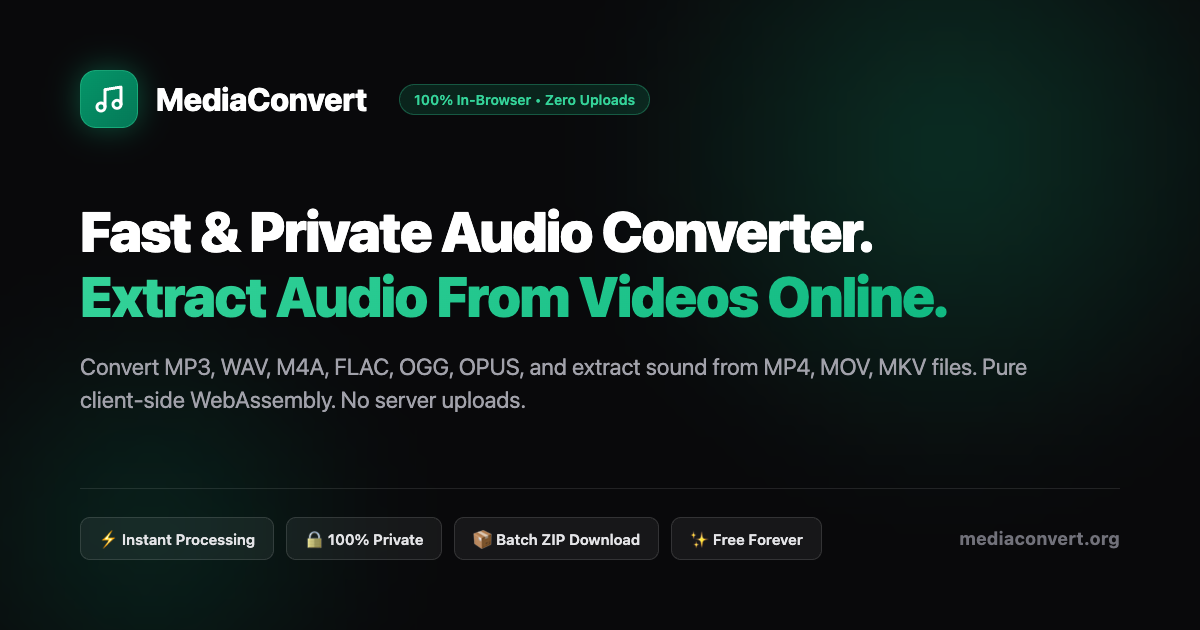
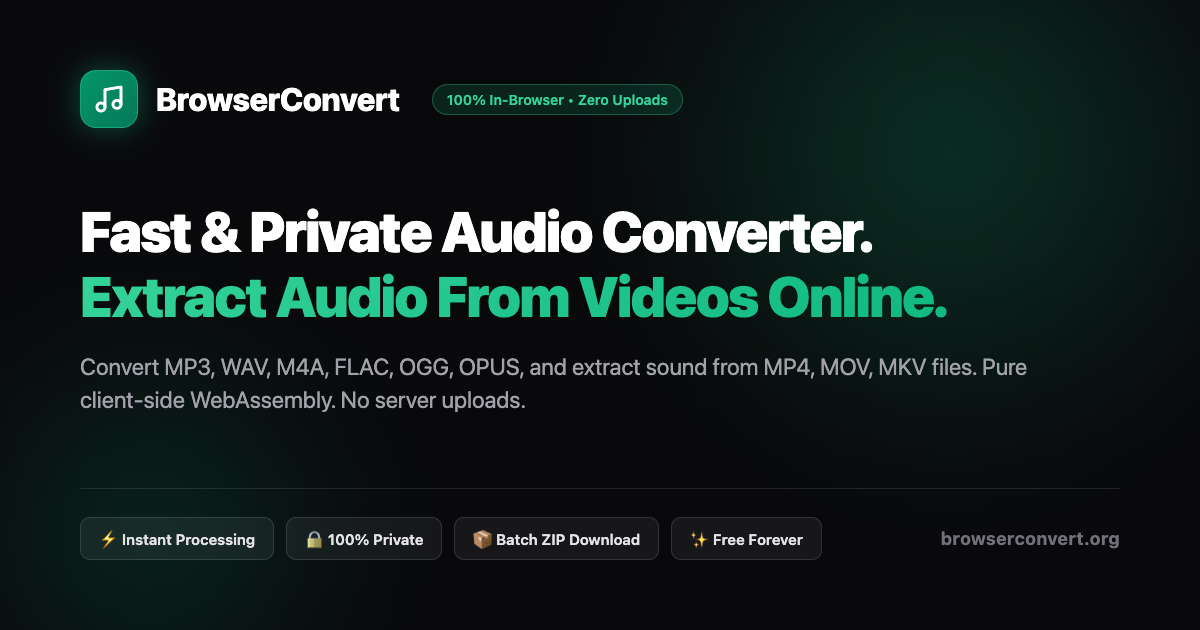
feat(branding): finalize brand as BrowserConvert and domain as browserconvert.org

Changed region(s): [[0.1233, 0.1206, 0.5858, 0.181], [0.7708, 0.8444, 0.8633, 0.8746]]

diff --git a/src/app/about/page.tsx b/src/app/about/page.tsx
@@ -8,21 +8,21 @@ import { DirectAnswer } from "@/components/seo/DirectAnswer";
 import { Cpu, ShieldCheck, Zap, Lock, ArrowRight } from "lucide-react";
 
 export const metadata: Metadata = {
-  title: "About MediaConvert - Client-Side Audio & Video Converter",
+  title: "About BrowserConvert - Client-Side Audio & Video Converter",
   description:
-    "Learn about MediaConvert's browser-native audio conversion architecture. Fast, free, and 100% private file-to-file conversion without server uploads.",
+    "Learn about BrowserConvert's browser-native audio conversion architecture. Fast, free, and 100% private file-to-file conversion without server uploads.",
   alternates: {
     canonical: `${siteConfig.url}/about`,
   },
   openGraph: {
-    title: "About MediaConvert - Client-Side Audio & Video Converter",
-    description: "Learn about MediaConvert's browser-native audio conversion architecture with zero server uploads.",
+    title: "About BrowserConvert - Client-Side Audio & Video Converter",
+    description: "Learn about BrowserConvert's browser-native audio conversion architecture with zero server uploads.",
     url: `${siteConfig.url}/about`,
     images: [`${siteConfig.url}/og-image.png`],
   },
   twitter: {
     card: "summary_large_image",
-    title: "About MediaConvert - Client-Side Audio & Video Converter",
+    title: "About BrowserConvert - Client-Side Audio & Video Converter",
     description: "Browser-native audio conversion architecture with zero server uploads.",
     images: [`${siteConfig.url}/og-image.png`],
   },
@@ -33,8 +33,8 @@ export default function AboutPage() {
     <div className="mx-auto max-w-4xl px-4 sm:px-6 lg:px-8 py-8 space-y-12">
       <SeoSchema
         pageType="website"
-        title="About MediaConvert - Mission, Tech & Privacy"
-        description="Learn how MediaConvert provides 100% private in-browser audio conversion without server storage."
+        title="About BrowserConvert - Mission, Tech & Privacy"
+        description="Learn how BrowserConvert provides 100% private in-browser audio conversion without server storage."
         url="/about"
         breadcrumbs={[{ label: "About", href: "/about" }]}
       />
@@ -43,22 +43,22 @@ export default function AboutPage() {
 
       <div className="space-y-4">
         <h1 className="text-3xl sm:text-4xl font-extrabold tracking-tight text-slate-900">
-          About MediaConvert
+          About BrowserConvert
         </h1>
         <p className="text-base text-slate-600 leading-relaxed">
-          MediaConvert is a free, modern web utility built to simplify audio format conversion and video-to-audio
+          BrowserConvert is a free, modern web utility built to simplify audio format conversion and video-to-audio
           extraction while protecting user confidentiality.
         </p>
       </div>
 
       <DirectAnswer
-        question="What is MediaConvert and how does it protect user privacy?"
-        answer="MediaConvert is a free online audio converter that runs WebAssembly-compiled FFmpeg locally inside your browser sandbox. Unlike traditional converters that upload private audio and video recordings to cloud servers, MediaConvert executes all decoding, trimming, and re-encoding on your device CPU. 0 bytes of media content are ever transferred to our servers."
+        question="What is BrowserConvert and how does it protect user privacy?"
+        answer="BrowserConvert is a free online audio converter that runs WebAssembly-compiled FFmpeg locally inside your browser sandbox. Unlike traditional converters that upload private audio and video recordings to cloud servers, BrowserConvert executes all decoding, trimming, and re-encoding on your device CPU. 0 bytes of media content are ever transferred to our servers."
       />
 
       {/* The Problem & Our Solution */}
       <section className="space-y-4 rounded-2xl border border-slate-200 bg-white p-6 sm:p-8 shadow-xs">
-        <h2 className="text-xl font-bold text-slate-900">Why We Built MediaConvert</h2>
+        <h2 className="text-xl font-bold text-slate-900">Why We Built BrowserConvert</h2>
         <p className="text-xs sm:text-sm text-slate-600 leading-relaxed">
           For years, converting an audio file or extracting sound from a video required either installing bloated,
           adware-laden desktop software or uploading sensitive recordings to obscure cloud servers. Cloud-based converters
@@ -66,7 +66,7 @@ export default function AboutPage() {
           family videos are uploaded over the internet, stored on third-party disks, and processed in unpredictable server environments.
         </p>
         <p className="text-xs sm:text-sm text-slate-600 leading-relaxed">
-          We built MediaConvert with a simple conviction: <strong>your media files should never leave your computer or phone.</strong>
+          We built BrowserConvert with a simple conviction: <strong>your media files should never leave your computer or phone.</strong>
         </p>
       </section>
 

diff --git a/src/app/page.tsx b/src/app/page.tsx
@@ -107,8 +107,8 @@ export default function HomePage() {
 
   const faqs = [
     {
-      q: "How does MediaConvert process files without uploading them?",
-      a: "MediaConvert runs WebAssembly (Wasm) compiled FFmpeg directly inside your web browser. When you select a file, your browser's CPU processes and re-encodes the audio data in memory. No file data is ever transmitted across the internet to our servers.",
+      q: "How does BrowserConvert process files without uploading them?",
+      a: "BrowserConvert runs WebAssembly (Wasm) compiled FFmpeg directly inside your web browser. When you select a file, your browser's CPU processes and re-encodes the audio data in memory. No file data is ever transmitted across the internet to our servers.",
     },
     {
       q: "Which video formats can I extract audio from?",
@@ -127,8 +127,8 @@ export default function HomePage() {
       a: "Because processing happens in your browser's memory, we recommend files under 1 GB for smooth performance. Very large video files may be constrained by your device's available RAM.",
     },
     {
-      q: "Can I use MediaConvert on my smartphone?",
-      a: "Yes. MediaConvert is fully responsive and functions on modern mobile browsers including Safari on iOS and Chrome on Android with WebAssembly support.",
+      q: "Can I use BrowserConvert on my smartphone?",
+      a: "Yes. BrowserConvert is fully responsive and functions on modern mobile browsers including Safari on iOS and Chrome on Android with WebAssembly support.",
     },
   ];
 
@@ -197,7 +197,7 @@ export default function HomePage() {
       <section className="mx-auto max-w-7xl px-4 sm:px-6 lg:px-8">
         <DirectAnswer
           question="How do I convert audio or extract sound from video files online without uploading them?"
-          answer="MediaConvert executes WebAssembly-compiled FFmpeg directly inside your web browser sandbox. Drag and drop your audio or video files into the converter, select your output format (MP3, WAV, M4A, FLAC, OGG, OPUS), and click Convert. All processing takes place in your local device memory with 100% privacy and zero server uploads."
+          answer="BrowserConvert executes WebAssembly-compiled FFmpeg directly inside your web browser sandbox. Drag and drop your audio or video files into the converter, select your output format (MP3, WAV, M4A, FLAC, OGG, OPUS), and click Convert. All processing takes place in your local device memory with 100% privacy and zero server uploads."
         />
 
         <div className="flex flex-col sm:flex-row sm:items-end justify-between mb-8 gap-4">
@@ -333,7 +333,7 @@ export default function HomePage() {
       <section className="mx-auto max-w-7xl px-4 sm:px-6 lg:px-8">
         <div className="text-center max-w-2xl mx-auto mb-10">
           <h2 className="text-xl sm:text-2xl font-bold tracking-tight text-slate-900">
-            How MediaConvert Works in 3 Simple Steps
+            How BrowserConvert Works in 3 Simple Steps
           </h2>
           <p className="mt-1 text-xs sm:text-sm text-slate-500">
             Intuitive client-side processing without complex menus or waiting queues.
@@ -373,12 +373,12 @@ export default function HomePage() {
         </div>
       </section>
 
-      {/* SECTION 5: WHY USE MEDIACONVERT */}
+      {/* SECTION 5: WHY USE BROWSERCONVERT */}
       <section className="mx-auto max-w-7xl px-4 sm:px-6 lg:px-8">
         <div className="rounded-2xl border border-slate-200 bg-white p-8 sm:p-12 shadow-xs">
           <div className="text-center max-w-2xl mx-auto mb-10">
             <h2 className="text-xl sm:text-2xl font-bold tracking-tight text-slate-900">
-              Why Choose MediaConvert?
+              Why Choose BrowserConvert?
             </h2>
             <p className="mt-1 text-xs sm:text-sm text-slate-500">
               Engineered for genuine privacy, audio fidelity, and modern browser standards.

diff --git a/src/app/mp4-to-mp3/page.tsx b/src/app/mp4-to-mp3/page.tsx
@@ -36,7 +36,7 @@ export default function Mp4ToMp3Page() {
   const faqs = [
     {
       q: "Does converting MP4 to MP3 reduce the audio quality?",
-      a: "MediaConvert extracts the audio stream directly and re-encodes it using the high-performance libmp3lame codec. When choosing 192 kbps or 320 kbps, the sound is virtually identical to the audio contained in the original MP4 video.",
+      a: "BrowserConvert extracts the audio stream directly and re-encodes it using the high-performance libmp3lame codec. When choosing 192 kbps or 320 kbps, the sound is virtually identical to the audio contained in the original MP4 video.",
     },
     {
       q: "Is my MP4 video uploaded to any server?",
@@ -48,7 +48,7 @@ export default function Mp4ToMp3Page() {
     },
     {
       q: "What if my MP4 video has multiple audio channels?",
-      a: "By default, MediaConvert retains stereo channels. You can also force Mono in Advanced Settings if you are extracting a podcast interview or speech recording to reduce file size.",
+      a: "By default, BrowserConvert retains stereo channels. You can also force Mono in Advanced Settings if you are extracting a podcast interview or speech recording to reduce file size.",
     },
   ];
 
@@ -128,7 +128,7 @@ export default function Mp4ToMp3Page() {
       {/* Answer-First / Direct Answer Block for AI Search & Featured Snippets */}
       <DirectAnswer
         question="How to convert MP4 to MP3 without uploading files to a server?"
-        answer="To convert MP4 to MP3 privately, upload your video to MediaConvert. Our browser engine demuxes the MP4 container and encodes the audio track into MP3 locally using WebAssembly FFmpeg. Select 192 kbps or 320 kbps for high fidelity. Your video never leaves your computer, ensuring complete confidentiality."
+        answer="To convert MP4 to MP3 privately, upload your video to BrowserConvert. Our browser engine demuxes the MP4 container and encodes the audio track into MP3 locally using WebAssembly FFmpeg. Select 192 kbps or 320 kbps for high fidelity. Your video never leaves your computer, ensuring complete confidentiality."
       />
 
       {/* Converter preconfigured with MP3 output */}
@@ -159,7 +159,7 @@ export default function Mp4ToMp3Page() {
           </h2>
           <p className="mt-2 text-xs sm:text-sm text-slate-600 leading-relaxed max-w-3xl">
             An MP4 file is a multimedia container that wraps video (commonly H.264 or HEVC), audio (commonly AAC),
-            and subtitle streams into a single file. When you extract MP3 from an MP4 file with MediaConvert, our
+            and subtitle streams into a single file. When you extract MP3 from an MP4 file with BrowserConvert, our
             browser engine demuxes the container, isolates the audio track, and re-encodes it into universal MP3.
           </p>
         </div>
@@ -175,7 +175,7 @@ export default function Mp4ToMp3Page() {
           <div className="space-y-2">
             <h3 className="text-sm font-bold text-slate-900">2. Save Battery & Memory</h3>
             <p className="text-xs text-slate-500 leading-relaxed">
-              Because MediaConvert runs locally with the <code>-vn</code> flag (video disabled), heavy video frames are ignored entirely, allowing your computer or phone to process the file in seconds.
+              Because BrowserConvert runs locally with the <code>-vn</code> flag (video disabled), heavy video frames are ignored entirely, allowing your computer or phone to process the file in seconds.
             </p>
           </div>
 

diff --git a/src/app/audio-converter/page.tsx b/src/app/audio-converter/page.tsx
@@ -35,7 +35,7 @@ export default function AudioConverterPage() {
   const faqs = [
     {
       q: "What audio formats can I convert between?",
-      a: "MediaConvert supports converting between MP3, WAV, M4A, AAC, FLAC, OGG, and OPUS. You can also import legacy formats like AIFF and WMA.",
+      a: "BrowserConvert supports converting between MP3, WAV, M4A, AAC, FLAC, OGG, and OPUS. You can also import legacy formats like AIFF and WMA.",
     },
     {
       q: "How do I choose the best audio format?",
@@ -47,7 +47,7 @@ export default function AudioConverterPage() {
     },
     {
       q: "Can I convert multiple files at once?",
-      a: "Yes. You can upload multiple audio files in a single batch. MediaConvert converts them sequentially and allows you to download all results individually or as a single ZIP file.",
+      a: "Yes. You can upload multiple audio files in a single batch. BrowserConvert converts them sequentially and allows you to download all results individually or as a single ZIP file.",
     },
   ];
 
@@ -110,7 +110,7 @@ export default function AudioConverterPage() {
 
       <DirectAnswer
         question="How do I convert audio files online without installing software or uploading data?"
-        answer="MediaConvert provides a client-side audio conversion engine compiled to WebAssembly. Drag and drop your audio files into the converter below, choose your desired output format (MP3, WAV, M4A, FLAC, OGG, OPUS), adjust your bitrate or sample rate in Advanced Settings, and download the converted audio instantly. Your files are processed in local memory and never uploaded to any remote server."
+        answer="BrowserConvert provides a client-side audio conversion engine compiled to WebAssembly. Drag and drop your audio files into the converter below, choose your desired output format (MP3, WAV, M4A, FLAC, OGG, OPUS), adjust your bitrate or sample rate in Advanced Settings, and download the converted audio instantly. Your files are processed in local memory and never uploaded to any remote server."
       />
 
       {/* Primary Working Converter */}
@@ -157,7 +157,7 @@ export default function AudioConverterPage() {
       {/* Step by Step Guide */}
       <section className="rounded-2xl border border-slate-200 bg-white p-8 shadow-xs space-y-6">
         <h2 className="text-lg sm:text-xl font-bold text-slate-900">
-          How to Convert Audio Files with MediaConvert
+          How to Convert Audio Files with BrowserConvert
         </h2>
         <div className="grid grid-cols-1 md:grid-cols-3 gap-6 text-xs text-slate-600">
           <div className="flex flex-col gap-2">

diff --git a/src/app/m4a-to-mp3/page.tsx b/src/app/m4a-to-mp3/page.tsx
@@ -38,12 +38,12 @@ export default function M4aToMp3Page() {
       a: "M4A is an Apple-preferred container usually holding AAC audio. While macOS and iOS devices support M4A natively, some Windows media players, legacy Android applications, car infotainment systems, and audio editing tools require standard MP3 format.",
     },
     {
-      q: "Can I convert iPhone Voice Memos with MediaConvert?",
-      a: "Yes. Simply share or export your Voice Memo from your iPhone (via AirDrop, Files app, or cloud drive) as an .m4a file, drop it into MediaConvert, and convert it into a universally playable MP3 in seconds.",
+      q: "Can I convert iPhone Voice Memos with BrowserConvert?",
+      a: "Yes. Simply share or export your Voice Memo from your iPhone (via AirDrop, Files app, or cloud drive) as an .m4a file, drop it into BrowserConvert, and convert it into a universally playable MP3 in seconds.",
     },
     {
       q: "Will converting M4A to MP3 degrade sound quality?",
-      a: "Both M4A (AAC) and MP3 are lossy formats. Converting between them is called transcoding. By selecting 192 kbps or 320 kbps output in MediaConvert, audio degradation is imperceptible to human hearing.",
+      a: "Both M4A (AAC) and MP3 are lossy formats. Converting between them is called transcoding. By selecting 192 kbps or 320 kbps output in BrowserConvert, audio degradation is imperceptible to human hearing.",
     },
   ];
 
@@ -121,7 +121,7 @@ export default function M4aToMp3Page() {
 
       <DirectAnswer
         question="How do I convert an Apple iPhone Voice Memo (.m4a) to MP3?"
-        answer="To convert an iPhone Voice Memo to MP3, export the recording as an .m4a file and drop it into MediaConvert. Select MP3 at 192 kbps or 320 kbps and click Convert. Our browser engine re-encodes the AAC audio into MP3 locally using WebAssembly, ensuring your personal voice recordings are never sent to any external server."
+        answer="To convert an iPhone Voice Memo to MP3, export the recording as an .m4a file and drop it into BrowserConvert. Select MP3 at 192 kbps or 320 kbps and click Convert. Our browser engine re-encodes the AAC audio into MP3 locally using WebAssembly, ensuring your personal voice recordings are never sent to any external server."
       />
 
       <div className="relative">

diff --git a/src/app/mov-to-mp3/page.tsx b/src/app/mov-to-mp3/page.tsx
@@ -35,7 +35,7 @@ export default function MovToMp3Page() {
   const faqs = [
     {
       q: "Can I convert iPhone 4K HDR MOV videos?",
-      a: "Yes. Even if your iPhone records in 4K ProRes or HDR, MediaConvert only processes the underlying audio stream, disregarding the massive video bitrate. This allows lightning-fast conversion on your device.",
+      a: "Yes. Even if your iPhone records in 4K ProRes or HDR, BrowserConvert only processes the underlying audio stream, disregarding the massive video bitrate. This allows lightning-fast conversion on your device.",
     },
     {
       q: "Why convert QuickTime MOV to MP3?",
@@ -43,7 +43,7 @@ export default function MovToMp3Page() {
     },
     {
       q: "Are my private videos uploaded anywhere?",
-      a: "Never. Your MOV video file stays completely inside your web browser. MediaConvert utilizes WebAssembly to parse the file locally on your CPU.",
+      a: "Never. Your MOV video file stays completely inside your web browser. BrowserConvert utilizes WebAssembly to parse the file locally on your CPU.",
     },
   ];
 
@@ -121,7 +121,7 @@ export default function MovToMp3Page() {
 
       <DirectAnswer
         question="How do I extract audio from an iPhone QuickTime (.mov) video?"
-        answer="To extract audio from an iPhone MOV video, upload it to MediaConvert. Our client-side WebAssembly engine isolates the audio stream and re-encodes it into an MP3 file directly in your browser. Because heavy video frames are ignored, extraction takes just seconds, shrinking multi-gigabyte video files by 98% with zero server uploads."
+        answer="To extract audio from an iPhone MOV video, upload it to BrowserConvert. Our client-side WebAssembly engine isolates the audio stream and re-encodes it into an MP3 file directly in your browser. Because heavy video frames are ignored, extraction takes just seconds, shrinking multi-gigabyte video files by 98% with zero server uploads."
       />
 
       <div className="relative">

diff --git a/src/app/audio-compressor/page.tsx b/src/app/audio-compressor/page.tsx
@@ -33,8 +33,8 @@ export const metadata: Metadata = {
 export default function AudioCompressorPage() {
   const faqs = [
     {
-      q: "How does audio compression work on MediaConvert?",
-      a: "MediaConvert compresses audio by re-encoding uncompressed or bloated audio files into high-efficiency MP3 or AAC codecs with optimized bitrates (such as 128 kbps or 96 kbps) and mono channel downmixing where appropriate, cutting file sizes by 50% to 85%.",
+      q: "How does audio compression work on BrowserConvert?",
+      a: "BrowserConvert compresses audio by re-encoding uncompressed or bloated audio files into high-efficiency MP3 or AAC codecs with optimized bitrates (such as 128 kbps or 96 kbps) and mono channel downmixing where appropriate, cutting file sizes by 50% to 85%.",
     },
     {
       q: "Will compression make my audio sound muffled or robotic?",
@@ -92,7 +92,7 @@ export default function AudioCompressorPage() {
 
       <DirectAnswer
         question="How can I reduce the file size of an audio file without losing quality?"
-        answer="To compress an audio file without noticeable quality degradation, upload it to MediaConvert's Audio Compressor. Choose a balanced compression preset (such as 128 kbps or 192 kbps) which discards inaudible frequencies while keeping voices and instruments crisp. An uncompressed WAV file shrinks by up to 85% into a lightweight MP3, all processed locally in your browser."
+        answer="To compress an audio file without noticeable quality degradation, upload it to BrowserConvert's Audio Compressor. Choose a balanced compression preset (such as 128 kbps or 192 kbps) which discards inaudible frequencies while keeping voices and instruments crisp. An uncompressed WAV file shrinks by up to 85% into a lightweight MP3, all processed locally in your browser."
       />
 
       <AudioCompressorTool />

diff --git a/src/app/audio-cutter/page.tsx b/src/app/audio-cutter/page.tsx
@@ -34,7 +34,7 @@ export default function AudioCutterPage() {
   const faqs = [
     {
       q: "How does the Audio Cutter work without uploading my files?",
-      a: "MediaConvert uses WebAssembly-compiled FFmpeg directly in your browser. When you select an audio track, the HTML5 Web Audio API parses the file for playback preview while FFmpeg slices the exact start and end timestamps in memory.",
+      a: "BrowserConvert uses WebAssembly-compiled FFmpeg directly in your browser. When you select an audio track, the HTML5 Web Audio API parses the file for playback preview while FFmpeg slices the exact start and end timestamps in memory.",
     },
     {
       q: "Can I cut audio on iPhone, Android, or mobile devices?",
@@ -92,7 +92,7 @@ export default function AudioCutterPage() {
 
       <DirectAnswer
         question="How do I cut an audio file online for free without uploading it to a server?"
-        answer="To trim an audio file privately, upload it to MediaConvert's Audio Cutter tool below. Set your desired start and end points using the interactive range sliders or type exact timestamps, preview the selection using the built-in player, and click Cut & Save. The file is trimmed locally using browser-native WebAssembly FFmpeg with 100% confidentiality."
+        answer="To trim an audio file privately, upload it to BrowserConvert's Audio Cutter tool below. Set your desired start and end points using the interactive range sliders or type exact timestamps, preview the selection using the built-in player, and click Cut & Save. The file is trimmed locally using browser-native WebAssembly FFmpeg with 100% confidentiality."
       />
 
       <AudioCutterTool />

diff --git a/src/app/audio-speed-changer/page.tsx b/src/app/audio-speed-changer/page.tsx
@@ -34,7 +34,7 @@ export default function AudioSpeedChangerPage() {
   const faqs = [
     {
       q: "Does changing the speed alter the musical pitch (chipmunk effect)?",
-      a: "No. MediaConvert uses FFmpeg's advanced atempo audio filter, which stretches or compresses the time domain while preserving the original natural pitch, avoiding high-pitched chipmunk or deep demonic distortions.",
+      a: "No. BrowserConvert uses FFmpeg's advanced atempo audio filter, which stretches or compresses the time domain while preserving the original natural pitch, avoiding high-pitched chipmunk or deep demonic distortions.",
     },
     {
       q: "What speed ranges are supported?",
@@ -92,7 +92,7 @@ export default function AudioSpeedChangerPage() {
 
       <DirectAnswer
         question="How do I speed up or slow down an audio file without changing its pitch?"
-        answer="To adjust the tempo of an audio file without altering vocal pitch, upload your track to MediaConvert's Audio Speed Changer below. Choose a playback speed between 0.5x and 2.0x and click Adjust Speed. Our browser engine utilizes the FFmpeg atempo filter to time-stretch the audio in local device memory, guaranteeing natural vocal tones with zero server uploads."
+        answer="To adjust the tempo of an audio file without altering vocal pitch, upload your track to BrowserConvert's Audio Speed Changer below. Choose a playback speed between 0.5x and 2.0x and click Adjust Speed. Our browser engine utilizes the FFmpeg atempo filter to time-stretch the audio in local device memory, guaranteeing natural vocal tones with zero server uploads."
       />
 
       <AudioSpeedTool />

diff --git a/src/app/audio-merger/page.tsx b/src/app/audio-merger/page.tsx
@@ -34,7 +34,7 @@ export default function AudioMergerPage() {
   const faqs = [
     {
       q: "Can I combine audio files of different formats?",
-      a: "Yes. You can upload an MP3, a WAV file, and an M4A file in the same batch. MediaConvert decodes them into uniform internal PCM audio streams before concatenating and exporting into your selected target format.",
+      a: "Yes. You can upload an MP3, a WAV file, and an M4A file in the same batch. BrowserConvert decodes them into uniform internal PCM audio streams before concatenating and exporting into your selected target format.",
     },
     {
       q: "Is there any gap or silence introduced between merged tracks?",
@@ -92,7 +92,7 @@ export default function AudioMergerPage() {
 
       <DirectAnswer
         question="How do I join multiple audio files into a single track online?"
-        answer="To merge multiple audio tracks into one continuous file, upload your files to MediaConvert's Audio Merger below. Arrange the files in your preferred sequence using the reorder buttons, choose your target format (such as MP3 or WAV), and click Merge Files. Our client-side WebAssembly engine concatenates the audio streams sample-by-sample with 100% local privacy."
+        answer="To merge multiple audio tracks into one continuous file, upload your files to BrowserConvert's Audio Merger below. Arrange the files in your preferred sequence using the reorder buttons, choose your target format (such as MP3 or WAV), and click Merge Files. Our client-side WebAssembly engine concatenates the audio streams sample-by-sample with 100% local privacy."
       />
 
       <AudioMergerTool />

diff --git a/src/app/flac-to-mp3/page.tsx b/src/app/flac-to-mp3/page.tsx
@@ -43,7 +43,7 @@ export default function FlacToMp3Page() {
     },
     {
       q: "Will batch converting a whole album work?",
-      a: "Yes. You can drag an entire folder of FLAC tracks into MediaConvert. The engine converts each track sequentially to protect your browser's memory, and lets you download the completed album as a single ZIP archive.",
+      a: "Yes. You can drag an entire folder of FLAC tracks into BrowserConvert. The engine converts each track sequentially to protect your browser's memory, and lets you download the completed album as a single ZIP archive.",
     },
   ];
 
@@ -121,7 +121,7 @@ export default function FlacToMp3Page() {
 
       <DirectAnswer
         question="What is the best way to convert FLAC to MP3 without quality degradation?"
-        answer="To convert FLAC to MP3 with maximum audio fidelity, transcode to 320 kbps MP3 using the LAME encoder on MediaConvert. FLAC provides bit-perfect studio recordings; converting to 320 kbps MP3 retains over 95% of perceptual nuance while shrinking file sizes by 75% for universal playback on iPhone, Android, and car stereos. MediaConvert processes files 100% locally in your browser."
+        answer="To convert FLAC to MP3 with maximum audio fidelity, transcode to 320 kbps MP3 using the LAME encoder on BrowserConvert. FLAC provides bit-perfect studio recordings; converting to 320 kbps MP3 retains over 95% of perceptual nuance while shrinking file sizes by 75% for universal playback on iPhone, Android, and car stereos. BrowserConvert processes files 100% locally in your browser."
       />
 
       <div className="relative">

diff --git a/src/app/contact/page.tsx b/src/app/contact/page.tsx
@@ -7,15 +7,15 @@ import { ContactForm } from "@/components/contact/ContactForm";
 import { Mail, MessageSquare } from "lucide-react";
 
 export const metadata: Metadata = {
-  title: "Contact MediaConvert - Support & Inquiries",
+  title: "Contact BrowserConvert - Support & Inquiries",
   description:
-    "Get in touch with the MediaConvert team. Contact us for format support, technical inquiries, bug reports, or feature suggestions.",
+    "Get in touch with the BrowserConvert team. Contact us for format support, technical inquiries, bug reports, or feature suggestions.",
   alternates: {
     canonical: `${siteConfig.url}/contact`,
   },
   openGraph: {
-    title: "Contact MediaConvert - Support & Inquiries",
-    description: "Get in touch with the MediaConvert team for support and feature inquiries.",
+    title: "Contact BrowserConvert - Support & Inquiries",
+    description: "Get in touch with the BrowserConvert team for support and feature inquiries.",
     url: `${siteConfig.url}/contact`,
     images: [`${siteConfig.url}/og-image.png`],
   },
@@ -26,8 +26,8 @@ export default function ContactPage() {
     <div className="mx-auto max-w-3xl px-4 sm:px-6 lg:px-8 py-8 space-y-10">
       <SeoSchema
         pageType="website"
-        title="Contact MediaConvert Support"
-        description="Get in touch with the MediaConvert engineering and product team."
+        title="Contact BrowserConvert Support"
+        description="Get in touch with the BrowserConvert engineering and product team."
         url="/contact"
         breadcrumbs={[{ label: "Contact", href: "/contact" }]}
       />
